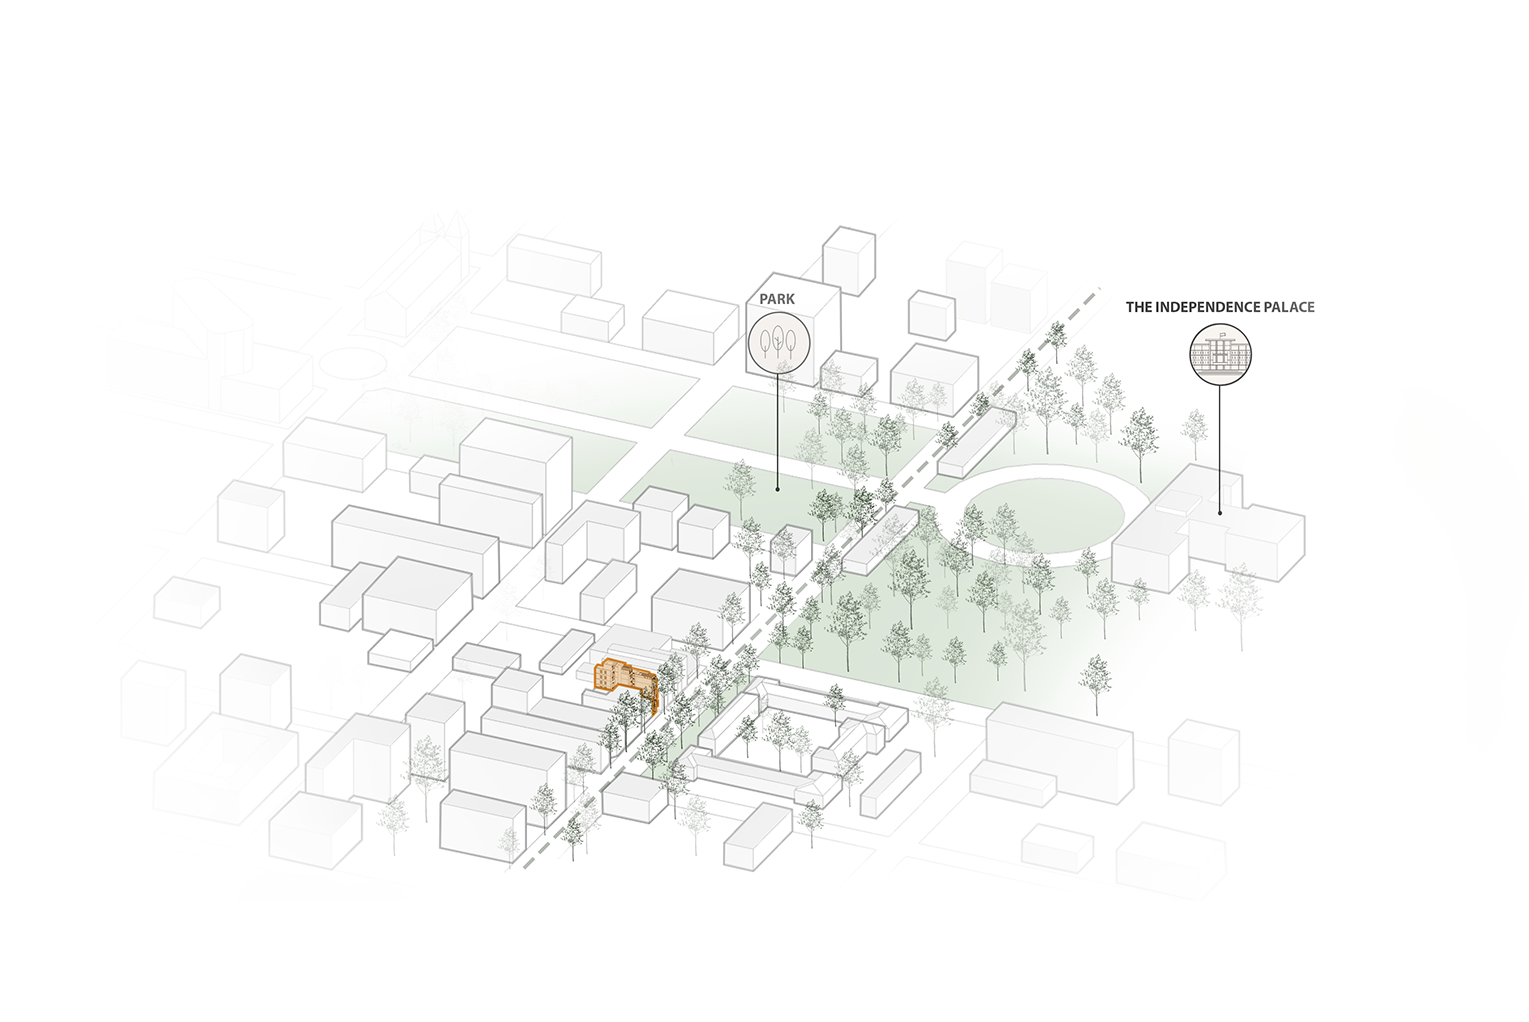
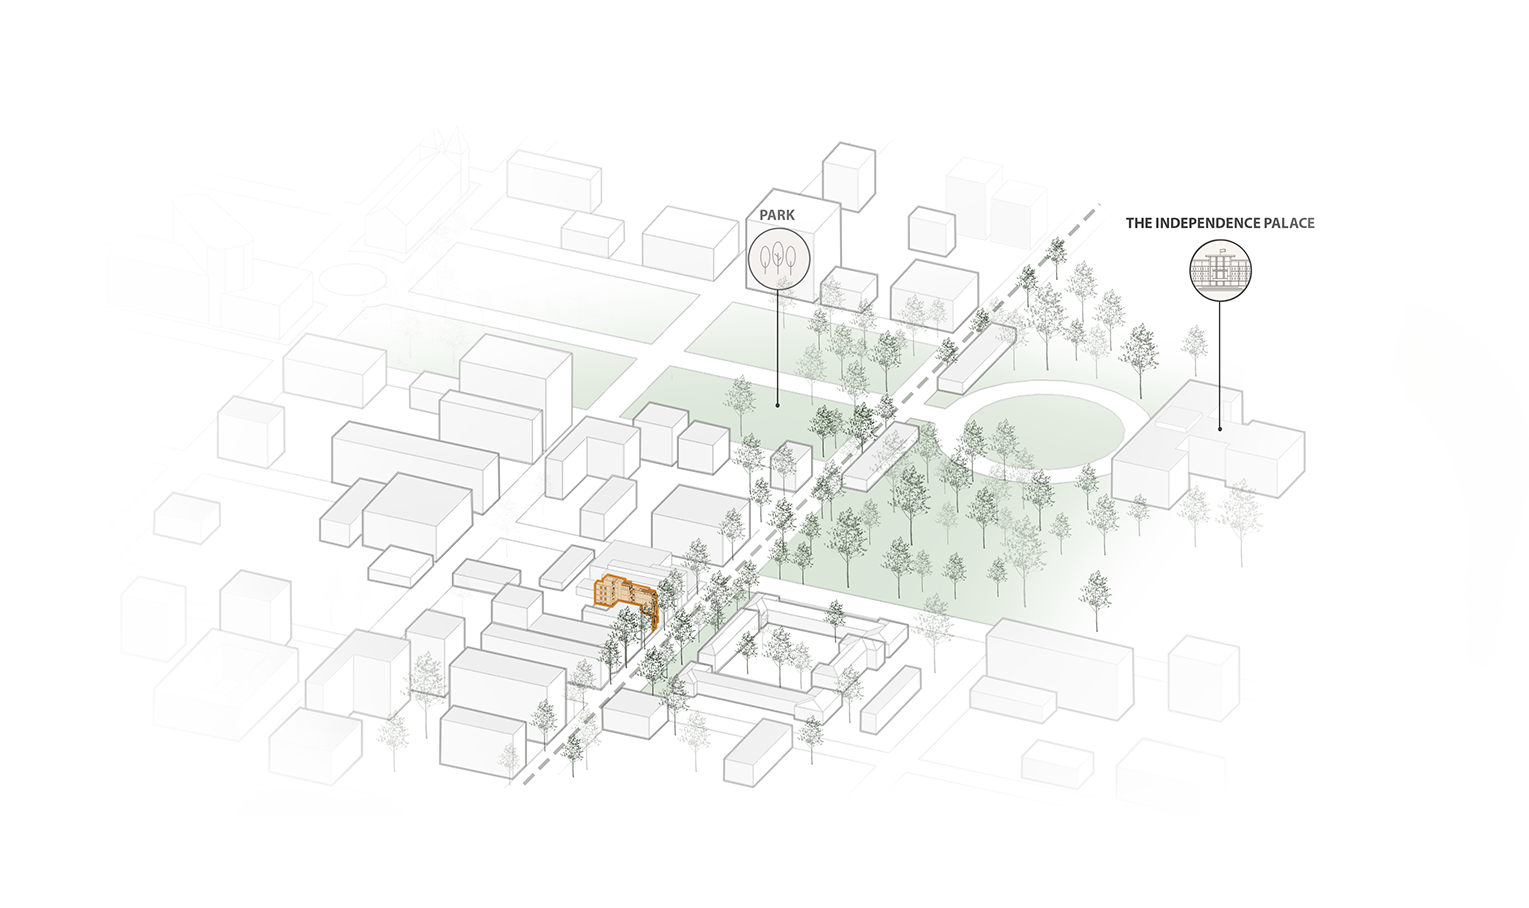
ariosa updates

Changed region(s): [[0.1844, 0.2159, 0.8607, 0.8634], [0.6763, 0.7709, 0.7377, 0.8018], [0.1537, 0.6167, 0.1844, 0.6476]]

diff --git a/projects/3-ariosa.html b/projects/3-ariosa.html
@@ -25,7 +25,10 @@
         <div class="meta-item"><span>Type</span><strong>Serviced Apartment</strong></div>
         <div class="meta-item"><span>Location</span><strong>Ho Chi Minh, Vietnam</strong></div>
         <div class="meta-item"><span>Focus</span><strong>Climate resilience</strong></div>
-        <div class="meta-item"><span>Status</span><strong>Professional Project</strong></div>
+        <div class="meta-item"><span>Status</span><strong>Professional Project - 
+          <a href="https://www.kastudio.com.vn/" target="_blank" rel="noopener noreferrer">KA Studio</a> </strong> - 
+          <strong><a href="https://www.archdaily.com/1000761/ariosa-apartments-ka-studio" target="_blank" rel="noopener noreferrer">Archdaily</a> </strong>
+        </div>
       </div>
     </section>
 
@@ -46,8 +49,10 @@
         </p>
         <p>
           Junior Architect | 
-          <a href="https://www.kastudio.com.vn/" target="_blank" rel="noopener noreferrer">KA Studio</a> <br>
-          SketchUp | AutoCAD | Adobe Photoshop
+          <a href="https://www.kastudio.com.vn/" target="_blank" rel="noopener noreferrer">KA Studio</a> 
+        </p>
+        <p>
+          SketchUp | AutoCAD | Adobe Photoshop | Modelling
         </p>
       </div>
     </section>
@@ -57,39 +62,83 @@
         Site <br>
         Concept
 
-        <div class="image-wide unframe">
-          <img src="../assets/images/3/site-1.png">
+        <div class="image-banner">
+          <img src="../assets/images/3/site-2.png">
         </div>
+        
       </h2>
       <div>
-        <p>
-          The design proposes a pilot public realm strategy that can be tested, maintained, and expanded over time. It treats water infrastructure as both a climate response and a social space.
-        </p>
-        <div class="image-pair">
-          <img src="../assets/images/detail-01.svg" alt="Project detail placeholder one" />
-          <img src="../assets/images/detail-02.svg" alt="Project detail placeholder two" />
+        <div class="image-banner unframe">
+          <img src="../assets/images/3/site-1.png">
+          <img src="../assets/images/3/concept-2.png">
+          <img src="../assets/images/3/concept-1.png">
         </div>
+        
+        
       </div>
     </section> 
 
     <section class="content-section">
       <h2>
-        Site <br>
-        Concept
+        Passive Design
+      </h2>
+      <div>
+        
+        <div class="image-banner unframe">
+          <figure class="image-tile">
+            <img src="../assets/images/3/typical-plan.png">
+            <figcaption class="image-subtitle">Typical Plan</figcaption>
+          </figure>
+        </div>
+        
+        <div class="image-wide">
+          <figure class="image-tile">
+            <img src="../assets/images/3/passive-design.png">
+            <figcaption class="image-subtitle">Passive Deign Plan</figcaption>
+          </figure>
+        </div>
+        <p>
+          Wood jalousie windows create successful wind ventilation with thermal comfort and adequate fresh air for the ventilated spaces
+        </p>
+        <div class="image-wide">
+          
+          <figure class="image-tile">
+            <img src="../assets/images/3/section.png">
+            <figcaption class="image-subtitle">Ventilation Section</figcaption>
+          </figure>
+        </div>
+        <p>
+          The solution of 2 courtyards surrounding the apartment helps to keep all rooms airy. 
+          During the day, the coridors are visually shortened to their actual length thanks to the shared light source
+        </p>
+      </div>
+    </section>
 
-        <div class="image-wide unframe">
-          <img src="../assets/images/3/site-1.png">
+    <section class="content-section">
+      <h2>
+        Interior Design
+        <div class="image-png">
+          <img src="../assets/images/3/animation.gif">
         </div>
       </h2>
       <div>
-        <p>
-          The design proposes a pilot public realm strategy that can be tested, maintained, and expanded over time. It treats water infrastructure as both a climate response and a social space.
-        </p>
-        <div class="image-pair">
-          <img src="../assets/images/detail-01.svg" alt="Project detail placeholder one" />
-          <img src="../assets/images/detail-02.svg" alt="Project detail placeholder two" />
-        </div>
+       <div class="image-banner unframe"> 
+         <figure class="image-tile">
+            <img src="../assets/images/3/interior-3.png">
+            <figcaption class="image-subtitle">Smart Furniture</figcaption>
+          </figure>
+       </div>
+
+       <div class="image-pair square">
+        <img src="../assets/images/3/interior-2.png">
+        <img src="../assets/images/3/interior-1.png">
+        <img src="../assets/images/3/a-21.jpg">
+        <img src="../assets/images/3/a-22.jpg">
+        <img src="../assets/images/3/a-18.jpg">
+        <img src="../assets/images/3/a-24.jpg">
+       </div>
       </div>
+      
     </section>
   </main>
 

diff --git a/styles.css b/styles.css
@@ -673,10 +673,14 @@ p.citation-text {
 .image-banner img {
   display: block;
   width: 100%;
-  aspect-ratio: 183/70;
+  height: auto;
   object-fit: cover;
   filter: contrast(0.95);
   mix-blend-mode: normal;
+}
+
+.image-banner.unframe {
+  border: 0px solid var(--line);
 }
 
 .image-single {
@@ -717,7 +721,7 @@ p.citation-text {
   aspect-ratio: 4 / 3;
   object-fit: cover;
   box-sizing: border-box;
-  filter: contrast(0.95);
+  filter: contrast(0.85);
   mix-blend-mode: multiply;
 }
 

diff --git a/projects/1-reclaimed-timber-facility.html b/projects/1-reclaimed-timber-facility.html
@@ -47,7 +47,7 @@
           Teammate: Quan Pham
         </p>
         <p>
-          Revit | Sketchup | AutoCAD | Adobe Illustrator | Photoshop | Indesign
+          Revit | Sketchup | AutoCAD | Adobe Illustrator | Photoshop | Indesign | Modelling
         </p>
       </div>
     </section>
@@ -226,8 +226,6 @@
           <img src="../assets/images/1/3715.jpg" >
           <img src="../assets/images/1/3700.jpg" >
           <img src="../assets/images/1/3704.jpg" >
-          <img src="../assets/images/1/3706.jpg" >
-          <img src="../assets/images/1/3705.jpg" >
         </div>
         <p class="citation-text">
           Photo by Dien Pham & Quan Pham

diff --git a/projects/2-kitchen-module.html b/projects/2-kitchen-module.html
@@ -46,7 +46,7 @@
           Teammate: Quan Pham
         </p>
         <p>
-          Sketchup | Rhino | Adobe Illustrator 
+          Sketchup | Rhino | Adobe Illustrator | Modelling
         </p>
       </div>
     </section>